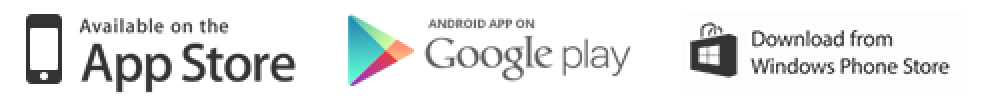
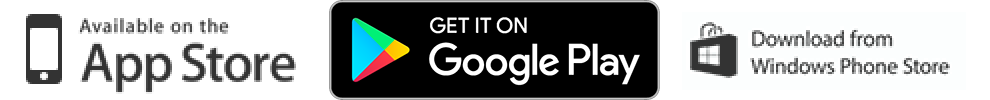
Google Play 앱 정보 추가

diff --git a/index.html b/index.html
@@ -4,18 +4,18 @@
     <meta charset="UTF-8">
     <meta name="viewport" content="width=device-width, initial-scale=1.0">
 
-    <title>Animated GIF Maker | ImgPlay</title>
+    <title>Animated GIF Maker ImgPlay</title>
 
     <meta name="description" content="Best iOS Animated gif maker and editor. ImgPlay can make GIFs or videos using LIVE Photos, photos, burst photos, and video at the easiest. Make and share GIFs with friends quickly.">
-    <meta name="author" content="ImgBase">
+    <meta name="author" content="ImgBase, Inc.">
     <meta name="keywords" content="gif maker, animated gif maker, gif to video, gif maker from video, convert gif to video, gif maker app, imgplay,gif,maker,animated,burst,image,picture,photo,convert,animate,animation,editor,video,post,pic,creator,make,to,of,moving">
-    <meta name="copyright" content="ImgBase" >
+    <meta name="copyright" content="ImgBase, Inc." >
     <meta name="application-name" content="ImgPlay">
-    
+
     <meta property="og:url" content="http://imgplay.net"/>
     <meta property="og:title" content="Animated GIF Maker | ImgPlay"/>
     <meta property="og:description" content="Best iOS Animated gif maker and editor."/>
-    <meta property="og:type" content="website"/>    
+    <meta property="og:type" content="website"/>
     <meta property="og:site_name" content="ImgPlay"/>
 
     <meta name="twitter:card" content="summary" />
@@ -24,7 +24,7 @@
     <meta name="twitter:description" content="Best iOS Animated gif maker and editor." />
     <meta name="twitter:image" content="static/images/icon/app_icon.png" />
     <meta name="twitter:url" content="http://imgplay.net" />
-    
+
     <meta name="apple-itunes-app" content="app-id=989843523, app-argument=landing">
     <link rel="apple-touch-icon" sizes="57x57" href="static/images/favicon/apple-icon-57x57.png">
     <link rel="apple-touch-icon" sizes="60x60" href="static/images/favicon/apple-icon-60x60.png">
@@ -54,14 +54,14 @@
     <link href="static/styles/responsive.css" rel="stylesheet" media="screen">
 
     <link href='http://fonts.googleapis.com/css?family=Source+Sans+Pro:200,400,700' rel='stylesheet' type='text/css'>
-    <link href='http://fonts.googleapis.com/css?family=Hind:300,500' rel='stylesheet' type='text/css'>  
+    <link href='http://fonts.googleapis.com/css?family=Hind:300,500' rel='stylesheet' type='text/css'>
     <link rel="alternate" hreflang="en" href="/index.html" />
     <link rel="alternate" hreflang="ja" href="/ja.html" />
     <script>
         var language = window.navigator.userLanguage || window.navigator.language;
         if (language.toLocaleUpperCase() == "JA-JP" || language.toLocaleUpperCase() == "JA") {
             window.location = "/ja.html";
-        } 
+        }
 
         (function(i,s,o,g,r,a,m){i['GoogleAnalyticsObject']=r;i[r]=i[r]||function(){
         (i[r].q=i[r].q||[]).push(arguments)},i[r].l=1*new Date();a=s.createElement(o),
@@ -103,9 +103,10 @@
                     <p class="available-device text-white">Available for <i class="fa fa-tablet"></i> <i class="fa fa-mobile"></i></p>
                     <div class="group-inline">
                         <a href="https://itunes.apple.com/app/apple-store/id989843523?pt=100862818&ct=landingpage&mt=8" target="_blank"><div class="btn-store btn-store-ios-white"></div></a>
+                        <!--<a href="https://play.google.com/store/apps/details?id=me.imgbase.imgplay.android" target="_blank"><div class="btn-store btn-store-android-white"></div></a>-->
+                        <a href="javascript:alert('Comming soon!')" target="_blank"><div class="btn-store btn-store-android-white"></div></a>
                     </div>
-
-                    <p class="copyrights-landing text-white">© <a href="http://imgbase.me">ImgBase</a>, 2016. All rights reserved.</p>
+                    <p class="copyrights-landing text-white">© <a href="http://imgbase.me">ImgBase, Inc.</a>, 2017. All rights reserved.</p>
                 </div>
 
             </div>
@@ -127,7 +128,7 @@
             <div class="col-md-4 margin-vertical">
                 <img style="display:block;margin:0 auto;" src="static/images/screenshots/en/03.png" />
             </div>
-            
+
         </div>
         <div class="row">
             <div class="col-md-4 margin-vertical">
@@ -153,6 +154,8 @@
 
                 <div class="group-inline" style="margin-top:20px;">
                     <a href="https://itunes.apple.com/app/apple-store/id989843523?pt=100862818&ct=landingpage&mt=8" target="_blank"><div class="btn-store btn-store-ios-white"></div></a>
+                    <!--<a href="https://play.google.com/store/apps/details?id=me.imgbase.imgplay.android" target="_blank"><div class="btn-store btn-store-android-white"></div></a>-->
+                    <a href="javascript:alert('Comming soon!')" target="_blank"><div class="btn-store btn-store-android-white"></div></a>
                 </div>
 
                 <!-- Social icons -->
@@ -162,7 +165,7 @@
                     <li class="instagram"><a href="https://instagram.com/imgplay"><i class="fa fa-instagram"></i></a></li>
                 </ul>
 
-                
+
             </div>
         </div>
     </div>
@@ -175,7 +178,7 @@
         <div class="row">
             <div class="col-xs-12">
                 <div class="group-inline">
-                    <div class="footer-copyrights">© <a href="http://team.artrow.net/">ImgBase</a>. 2016</div>
+                    <div class="footer-copyrights">© <a href="http://team.artrow.net/">ImgBase, Inc.</a> 2016</div>
                     <ul class="footer-menu">
                         <li><a href="http://imgbase.me/">About Us</a></li>
                         <li><a href="http://imgbase.github.io/imgplay/help/en.html">FAQ</a></li>

diff --git a/ja.html b/ja.html
@@ -7,15 +7,15 @@
     <title>GIFアニメ画像動画が作成できるアプリ | ImgPlay</title>
 
     <meta name="description" content="写真、バースト、ビデオを利用して、最も簡単にGIF画像が作れるアプリです。 簡単でより良い! 誰でも簡単にGIFアニメを作る！ImgPlayです！">
-    <meta name="author" content="ImgBase">
+    <meta name="author" content="ImgBase, Inc.">
     <meta name="keywords" content="iアニメーション,動く,イメージ,バースト,ビデオ,作ろ,作り,制作,れんしゃ,連写,ライブ,写真,フォト,live,photo,line,テキスト,編集,共有,gif,maker,instagram">
-    <meta name="copyright" content="ImgBase" >
+    <meta name="copyright" content="ImgBase, Inc." >
     <meta name="application-name" content="ImgPlay">
-    
+
     <meta property="og:url" content="http://imgplay.net"/>
     <meta property="og:title" content="GIF動画が作れる | ImgPlay"/>
     <meta property="og:description" content="写真、バースト、ビデオを利用して、最も簡単にGIF画像が作れるアプリです。"/>
-    <meta property="og:type" content="website"/>    
+    <meta property="og:type" content="website"/>
     <meta property="og:site_name" content="ImgPlay"/>
 
     <meta name="twitter:card" content="summary" />
@@ -56,10 +56,10 @@
     <link href="static/styles/responsive.css" rel="stylesheet" media="screen">
 
     <link href='http://fonts.googleapis.com/css?family=Source+Sans+Pro:200,400' rel='stylesheet' type='text/css'>
-    <link href='http://fonts.googleapis.com/css?family=Hind:300,500' rel='stylesheet' type='text/css'>  
+    <link href='http://fonts.googleapis.com/css?family=Hind:300,500' rel='stylesheet' type='text/css'>
     <link rel="alternate" hreflang="en" href="/index.html" />
     <link rel="alternate" hreflang="ja" href="/ja.html" />
-    
+
     <script>
       (function(i,s,o,g,r,a,m){i['GoogleAnalyticsObject']=r;i[r]=i[r]||function(){
       (i[r].q=i[r].q||[]).push(arguments)},i[r].l=1*new Date();a=s.createElement(o),
@@ -102,9 +102,11 @@
                     <p class="available-device text-white">Available for <i class="fa fa-tablet"></i> <i class="fa fa-mobile"></i></p>
                     <div class="group-inline">
                         <a href="https://itunes.apple.com/app/apple-store/id989843523?pt=100862818&ct=landingpage&mt=8" target="_blank"><div class="btn-store btn-store-ios-white"></div></a>
+                        <!--<a href="https://play.google.com/store/apps/details?id=me.imgbase.imgplay.android&hl=ja" target="_blank"><div class="btn-store btn-store-android-white"></div></a>-->
+                        <a href="javascript:alert('近日公開！')" target="_blank"><div class="btn-store btn-store-android-white"></div></a>
                     </div>
 
-                    <p class="copyrights-landing text-white">© <a href="http://imgbase.me">ImgBase</a>, 2015. All rights reserved.</p>
+                    <p class="copyrights-landing text-white">© <a href="http://imgbase.me">ImgBase, Inc.</a>, 2017. All rights reserved.</p>
                 </div>
 
             </div>
@@ -126,7 +128,7 @@
             <div class="col-md-4 margin-vertical">
                 <img style="display:block;margin:0 auto;" src="static/images/screenshots/ja/03.png" />
             </div>
-            
+
         </div>
         <div class="row">
             <div class="col-md-6 margin-vertical">
@@ -150,6 +152,8 @@
 
                 <div class="group-inline" style="margin-top:20px;">
                     <a href="https://itunes.apple.com/app/apple-store/id989843523?pt=100862818&ct=landingpage&mt=8" target="_blank"><div class="btn-store btn-store-ios-white"></div></a>
+                    <!--<a href="https://play.google.com/store/apps/details?id=me.imgbase.imgplay.android&hl=ja" target="_blank"><div class="btn-store btn-store-android-white"></div></a>-->
+                    <a href="javascript:alert('近日公開！')" target="_blank"><div class="btn-store btn-store-android-white"></div></a>
                 </div>
 
                 <!-- Social icons -->
@@ -159,7 +163,7 @@
                     <li class="instagram"><a href="https://instagram.com/imgplay"><i class="fa fa-instagram"></i></a></li>
                 </ul>
 
-                
+
             </div>
         </div>
     </div>
@@ -172,7 +176,7 @@
         <div class="row">
             <div class="col-xs-12">
                 <div class="group-inline">
-                    <div class="footer-copyrights">© <a href="http://team.artrow.net/">ImgBase</a>. 2015</div>
+                    <div class="footer-copyrights">© <a href="http://team.artrow.net/">ImgBase, Inc.</a>. 2017</div>
                     <ul class="footer-menu">
                         <li><a href="http://imgbase.me/">About Us</a></li>
                         <li><a href="http://imgbase.github.io/imgplay/help/ja.html">FAQ</a></li>

diff --git a/static/styles/landing.css b/static/styles/landing.css
@@ -562,7 +562,7 @@ fieldset[disabled] .btn-link:focus {
 .btn-store {
   width: 165px;
   height: 50px;
-  margin-right: 5px;
+  margin-right: 10px;
   margin-bottom: 5px;
   border-radius: 5px;
 }
